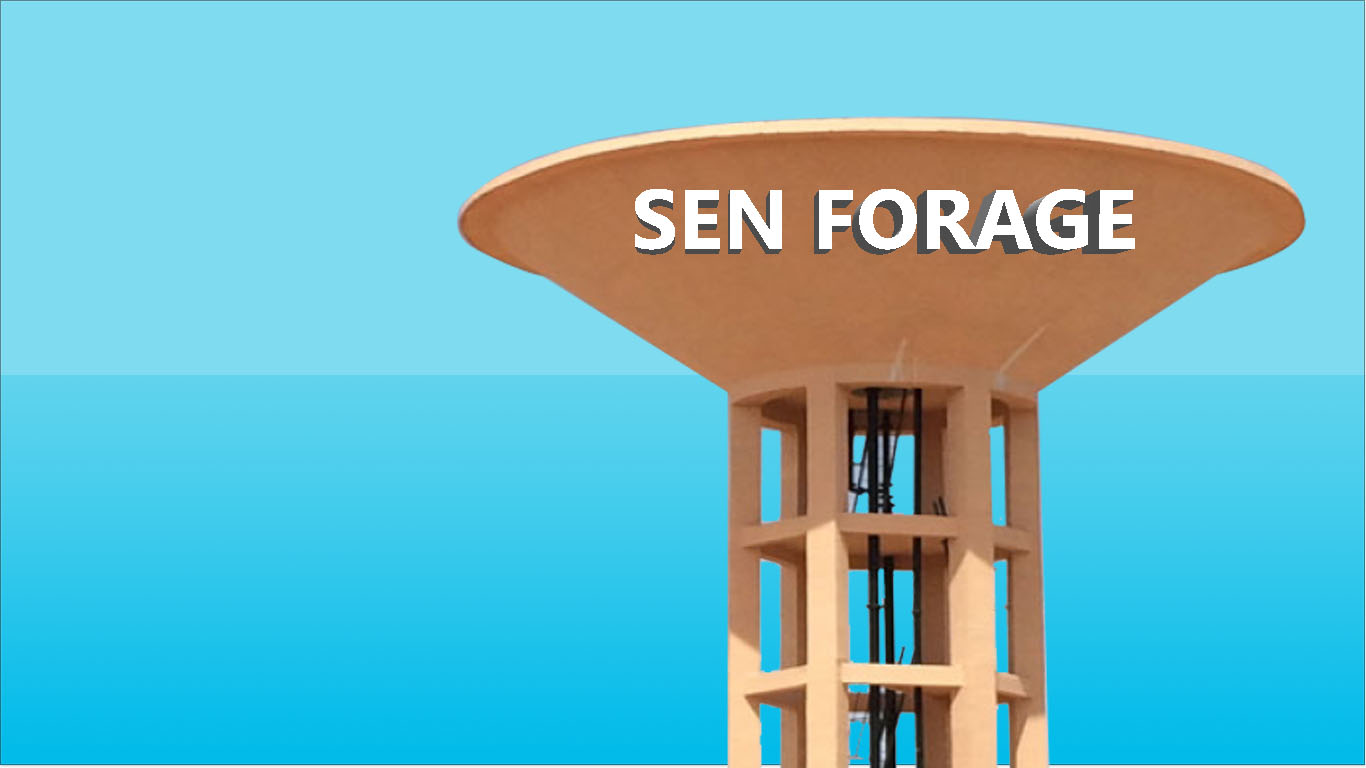
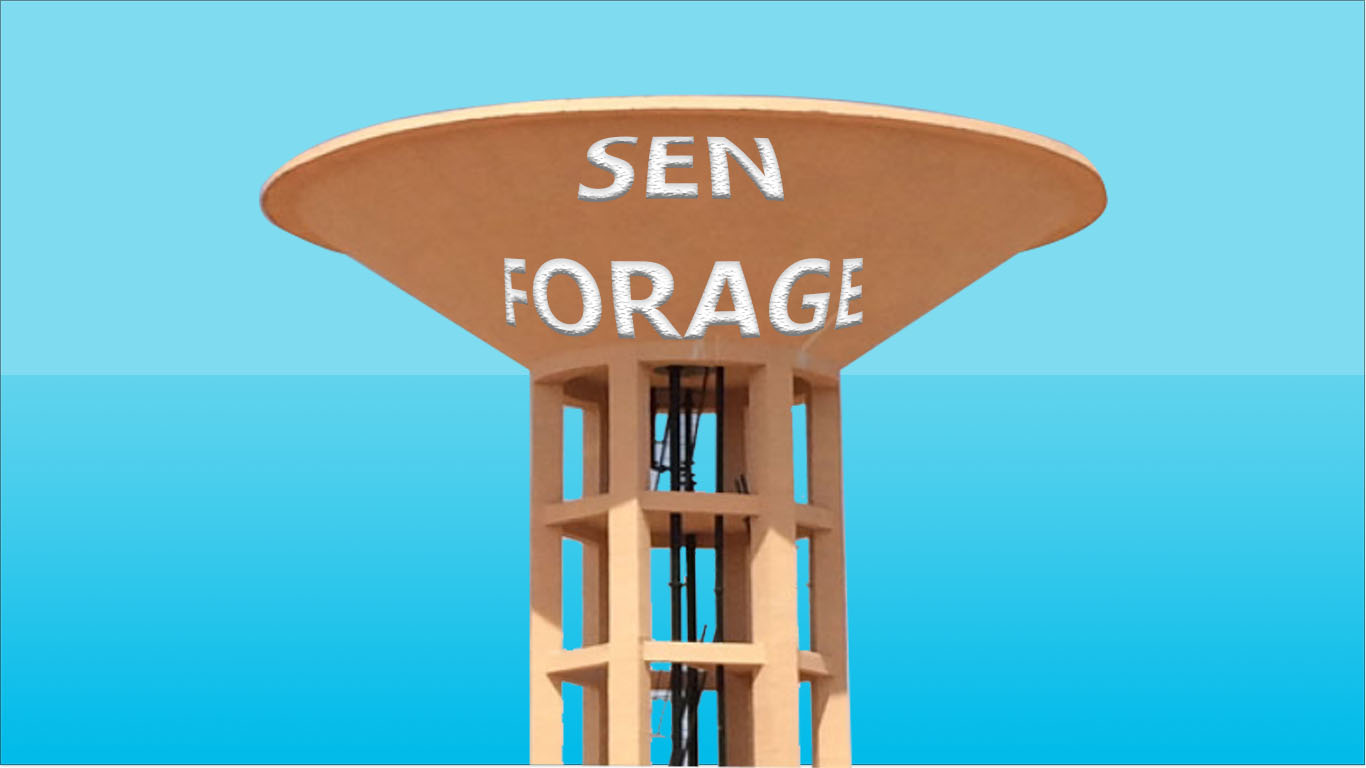
modifié :         public/css/myStyle-nav.css 	modifié :         public/images/foragedefond.jpg

diff --git a/public/css/myStyle-nav.css b/public/css/myStyle-nav.css
@@ -1,5 +1,5 @@
 .jumbotron {
-    background-image: url('../images/foragedefond2.jpg');
+    background-image: url('../images/foragedefond.jpg');
     background-size: cover;
     background-repeat: no-repeat;
     color: aliceblue;
